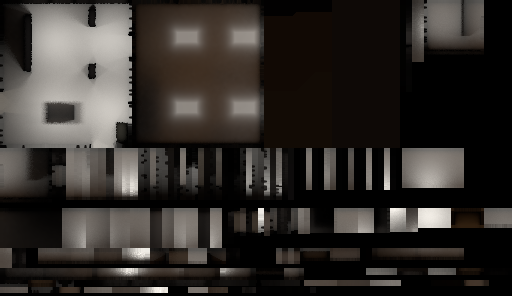
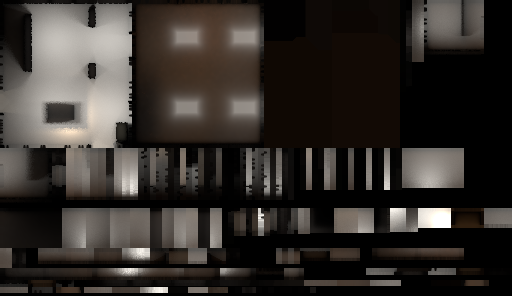
Breachline Archive: desk lamp modelled and baked as a warm local source (fixtures take a height and gain)
Claude-Session: https://claude.ai/code/session_015jvJA7yoUBSiN7zPHK6vVC

diff --git a/src/games/breachline/render/labdress.ts b/src/games/breachline/render/labdress.ts
@@ -10,7 +10,7 @@ import type { Atlas, Region } from './levelgeo';
 
 type V3 = [number, number, number];
 /** Materials the dressing asks for; artworld.ts maps each key to a material. */
-export type DressKey = 'casing' | 'door' | 'locker' | 'exit' | 'alarm' | 'fire' | 'card' | 'label' | 'binder' | 'grid' | 'cork' | 'paper' | 'aid' | 'screen' | 'plastic' | 'sign' | 'clock' | 'handle' | 'kick' | 'trim' | 'socket' | 'conduit' | 'steel' | 'chrome' | 'amber' | 'glass';
+export type DressKey = 'bulb' | 'casing' | 'door' | 'locker' | 'exit' | 'alarm' | 'fire' | 'card' | 'label' | 'binder' | 'grid' | 'cork' | 'paper' | 'aid' | 'screen' | 'plastic' | 'sign' | 'clock' | 'handle' | 'kick' | 'trim' | 'socket' | 'conduit' | 'steel' | 'chrome' | 'amber' | 'glass';
 
 const inRoom = (r: Region, x: number, z: number) => x > r.x0 && x < r.x1 && z > r.z0 && z < r.z1;
 
@@ -104,6 +104,16 @@ function dressArchive(atlas: Atlas, room: Region): DetailBuilder {
     // Filing cabinets face west, into the room.
     if (b.mat === 'steel') filing(D, b.x0, [-1, 0, 0], b.z0, b.z1, b.y1);
     if (b.mat === 'wood') {
+      {
+        // A desk lamp: a weighted base, a jointed arm and a green enamel shade over a warm bulb.
+        const lx = 4.25, lz = 2.85, top = b.y1, on: V3 = [lx, top + 0.001, lz], tu: V3 = [0, 1, 0];
+        const geo = (g: THREE.BufferGeometry, key: DressKey, tint?: V3) => { D.mesh(key, g.attributes.position.array, g.attributes.normal.array, g.index!.array, on, tu, tint ?? [1, 1, 1]); g.dispose(); };
+        geo(new THREE.CylinderGeometry(0.07, 0.08, 0.025, 20).translate(lx + 0.12, top + 0.0125, lz + 0.02), 'plastic', [0.6, 0.6, 0.6]);
+        geo(new THREE.CylinderGeometry(0.008, 0.008, 0.3, 8).rotateZ(-0.35).translate(lx + 0.07, top + 0.16, lz + 0.02), 'chrome');
+        geo(new THREE.CylinderGeometry(0.008, 0.008, 0.22, 8).rotateZ(1.1).translate(lx - 0.0, top + 0.31, lz + 0.01), 'chrome');
+        geo(new THREE.CylinderGeometry(0.03, 0.085, 0.12, 20, 1, true).translate(lx, top + 0.32, lz), 'aid');
+        geo(new THREE.SphereGeometry(0.03, 12, 8).translate(lx, top + 0.31, lz), 'bulb');
+      }
       // The reading table: paper stacks, box files lying flat, an open archive box.
       const top = b.y1, r = seeded(5), on = (x: number, z: number): V3 => [x, top + 0.001, z], tu: V3 = [0, 1, 0];
       for (let i = 0; i < 5; i++) {

diff --git a/src/games/breachline/render/fixtures.ts b/src/games/breachline/render/fixtures.ts
@@ -6,7 +6,7 @@ import { MAP } from '../map';
 import { REGIONS } from './levelgeo';
 
 /** A recessed 1200 x 600 troffer, long side along X, at the ceiling. */
-export interface Fixture { x: number; z: number; color: readonly [number, number, number]; w: number; d: number }
+export interface Fixture { x: number; z: number; color: readonly [number, number, number]; w: number; d: number; /** A lamp below the ceiling (a desk lamp): its height, and a gain for its small, bright source. */ y?: number; gain?: number }
 const COOL = [0.9, 0.97, 1] as const;
 const troffer = (x: number, z: number, color: readonly [number, number, number] = COOL): Fixture => ({ x, z, color, w: 1.2, d: 0.6 });
 
@@ -15,7 +15,9 @@ export const FIXTURES: Record<string, Fixture[]> = {
   lab: [-2.7, 1.7].flatMap(x => [-8.2, -4.2].map(z => troffer(x, z))),
   // One line down the middle of the corridor every 4.5 m, so the walls get pools and falloff; warmer than the Lab.
   // The Archive: four fittings between the shelving runs, a slightly warm white.
-  archive: [3.3, 6.9].flatMap(x => [3.2, 7.6].map(z => troffer(x, z, [1, 0.97, 0.91]))),
+  archive: [...[3.3, 6.9].flatMap(x => [3.2, 7.6].map(z => troffer(x, z, [1, 0.97, 0.91]))),
+    // A desk lamp on the reading table: a warm local pool on the table and the floor round it.
+    { x: 4.25, z: 2.85, color: [1.3, 0.92, 0.55], w: 0.14, d: 0.14, y: 1.12, gain: 26 }],
   // Tubes replaced at different times: older ones gone warm, two new cold ones, so the corridor's light is not one
   // flat colour along its length.
   corridor: [-12.75, -8.25, -3.75, 0.75, 5.25, 9.75, 13.5].map((x, i) => troffer(x, -0.5, ([[1.06, 0.9, 0.72], [1, 0.95, 0.86], [0.88, 0.95, 1.06], [1, 0.95, 0.86], [1.06, 0.9, 0.72], [1, 0.95, 0.86], [0.88, 0.95, 1.06]] as const)[i])),

diff --git a/scripts/breachline-assets/bake.ts b/scripts/breachline-assets/bake.ts
@@ -164,7 +164,7 @@ function direct(p: V3, n: V3, samples: number): { v: V3; dir: V3 } {
     if (dx0 * dx0 + dz0 * dz0 > (l.range + 3) ** 2) continue;
     let acc = 0;
     for (let i = 0; i < sx; i++) for (let j = 0; j < sz; j++) {
-      const q: V3 = [l.x + ((i + rnd()) / sx - 0.5) * LAMP_W, LAMP_Y, l.z + ((j + rnd()) / sz - 0.5) * LAMP_D];
+      const q: V3 = [l.x + ((i + rnd()) / sx - 0.5) * LAMP_W, l.y ?? LAMP_Y, l.z + ((j + rnd()) / sz - 0.5) * LAMP_D];
       const d: V3 = [q[0] - p[0], q[1] - p[1], q[2] - p[2]], d2 = d[0] * d[0] + d[1] * d[1] + d[2] * d[2], dl = Math.sqrt(d2);
       const cs = (d[0] * n[0] + d[1] * n[1] + d[2] * n[2]) / dl, cl = d[1] / dl; // lamp faces down
       if (cs <= 0 || cl <= 0) continue;
@@ -173,9 +173,9 @@ function direct(p: V3, n: V3, samples: number): { v: V3; dir: V3 } {
       acc += w;
       dir[0] += w * d[0] / dl; dir[1] += w * d[1] / dl; dir[2] += w * d[2] / dl;
     }
-    let k = LAMP_POWER * LAMP_W * LAMP_D / (sx * sz) * acc;
+    let k = LAMP_POWER * LAMP_W * LAMP_D / (sx * sz) * acc * (l.gain ?? 1);
     // Ceiling just around the fitting: the housing's lip and diffuser spill.
-    if (n[1] < -0.5 && p[1] > LAMP_Y - 0.1) {
+    if (l.y === undefined && n[1] < -0.5 && p[1] > LAMP_Y - 0.1) {
       const ox = Math.max(0, Math.abs(p[0] - l.x) - LAMP_W / 2), oz = Math.max(0, Math.abs(p[2] - l.z) - LAMP_D / 2);
       k += HALO * Math.exp(-Math.hypot(ox, oz) / HALO_FALL);
     }

diff --git a/src/games/breachline/render/artworld.ts b/src/games/breachline/render/artworld.ts
@@ -144,7 +144,8 @@ export async function loadArtWorld(renderer: THREE.WebGLRenderer, tier: Tier, pr
         alarm: plain([0.62, 0.06, 0.05], 0.35, 0),
         card: plain([0.55, 0.43, 0.3], 0.85, 0), binder: plain([1, 1, 1], 0.5, 0), label: plain([0.88, 0.87, 0.82], 0.8, 0),
         exit: { map: printed.exit, normalMap: null, armMap: null, roughness: 0.3, metalness: 0, emissive: new THREE.Color(0.9, 1.2, 0.95), emissiveMap: printed.exit },
-        amber: plain([0.2, 0.08, 0.015], 0.05, 0), glass: plain([0.1, 0.13, 0.125], 0.04, 0),
+        amber: plain([0.2, 0.08, 0.015], 0.05, 0),
+        bulb: { ...plain([1, 0.85, 0.6], 0.3, 0), emissive: new THREE.Color(6, 4.2, 2.4) }, glass: plain([0.1, 0.13, 0.125], 0.04, 0),
       };
       const merged: GeoArrays = { position: [], normal: [], uv: [], uv1: [], color: [], index: [] };
       for (const [key, arrays] of D.parts) {

diff --git a/src/games/breachline/render/fixturemesh.ts b/src/games/breachline/render/fixturemesh.ts
@@ -40,6 +40,7 @@ export function fixtureMeshes(list: readonly Fixture[]): { meshes: THREE.Mesh[];
     idx.push(b, b + 1, b + 2, b, b + 2, b + 3);
   };
   for (const f of list) {
+    if (f.y !== undefined) continue; // desk lamps are modelled with the room's dressing
     const x0 = f.x - f.w / 2, x1 = f.x + f.w / 2, z0 = f.z - f.d / 2, z1 = f.z + f.d / 2;
     const X0 = x0 - LIP, X1 = x1 + LIP, Z0 = z0 - LIP, Z1 = z1 + LIP, y = DIFFUSER_Y, top = WALL_H;
     // Rim around the diffuser, facing down (lit by the diffuser beside it), then the housing's four sides.

diff --git a/docs/evidence/breachline/overhaul/STATUS.md b/docs/evidence/breachline/overhaul/STATUS.md
@@ -138,8 +138,12 @@ instanced:
   lit as a box, not a flat card.
 - **Cost:** one draw call for every box body, plus one per label variant. The Archive view is 93k triangles
   (round 1: 82k), 201 draw calls (round 1: 179).
-- **Not done yet:** aisle shading in the bake (the shelving is already in the bake geometry; the darker aisles the
-  reviewer wants need a closer look at the bake), the desk lamp, and rolling steps or a trolley.
+- **Desk lamp (done):** a modelled lamp on the reading table (weighted base, jointed chrome arm, green enamel
+  shade, a glowing warm bulb), baked as a small warm source at 1.1 m. Fixtures can now carry a height and a gain;
+  the fitting mesh skips them. Archive re-baked (307 s). The warm pool reads only faintly at evidence size; more
+  gain is a re-bake away. Evidence: `archive-desk-high.png`.
+- **Not done yet:** darker aisles (the fittings sit between the shelving runs, so the aisles are where the light
+  is); rolling steps or a trolley.
 - Archive (mine, strict scale): D 5.5 -> 6.5; A unchanged.
 - Tests: unit tests 97/97; browser suite plus the online test 10 passed, with the stock-fighters warm run as the
   expected failure.
